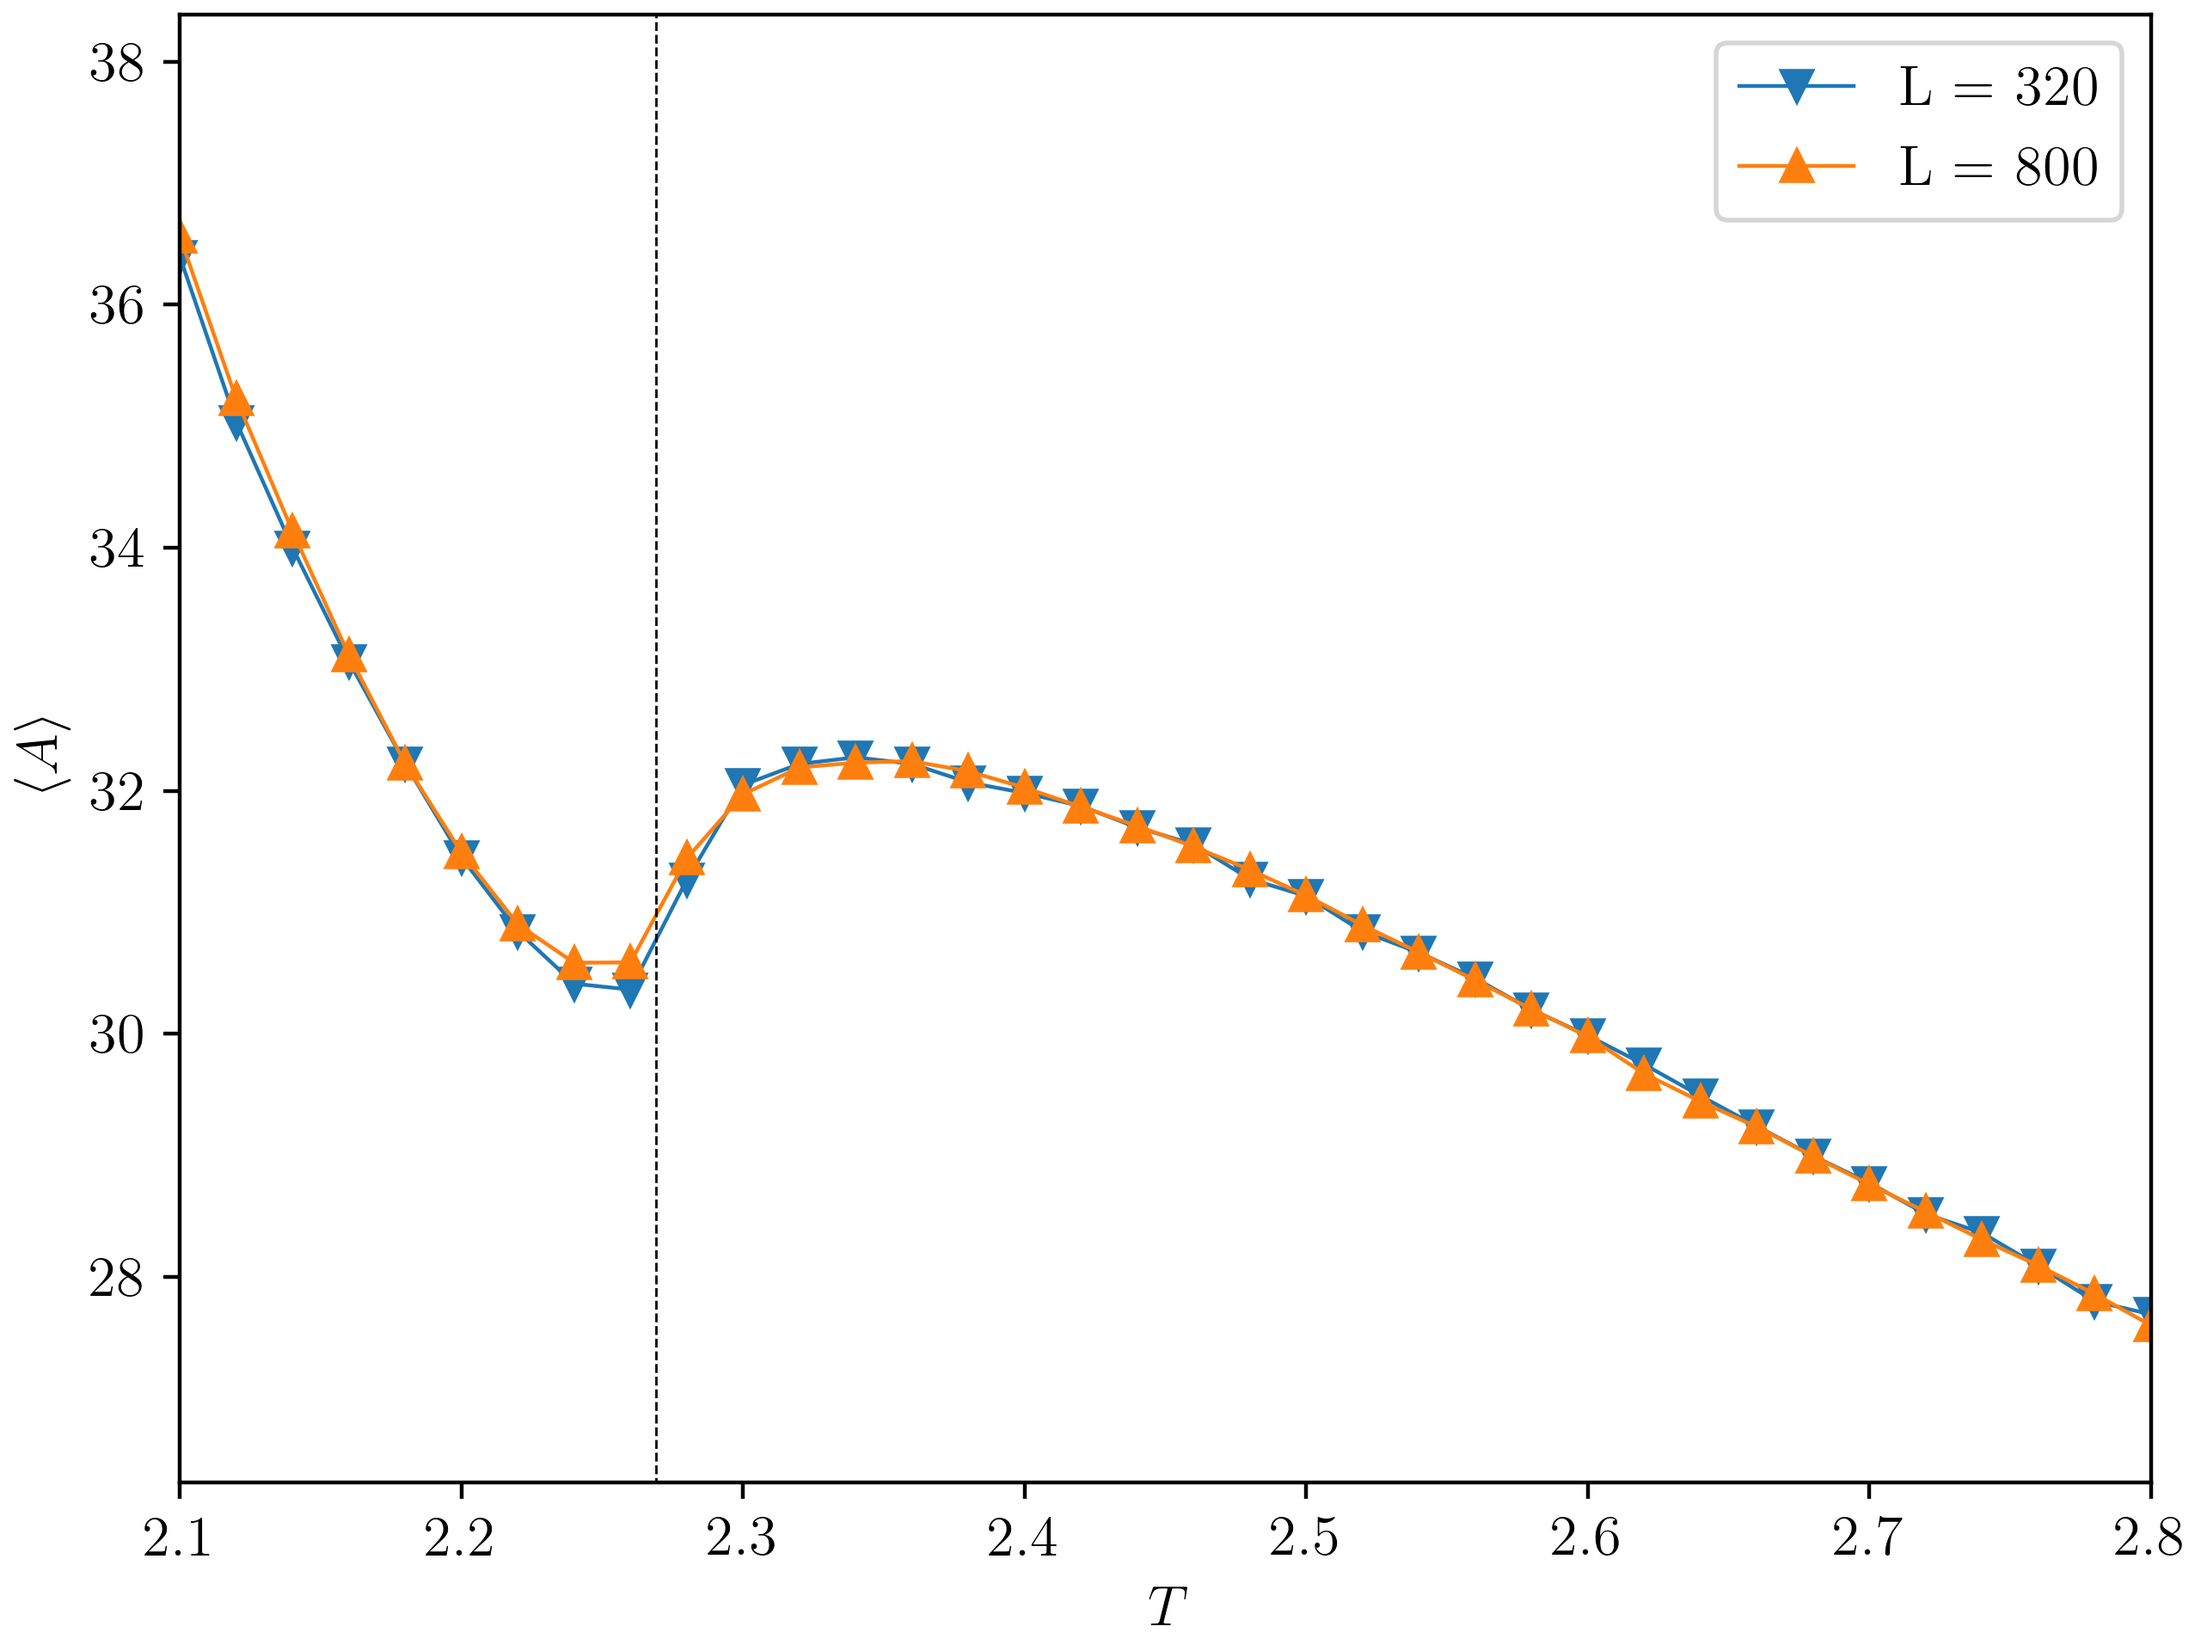
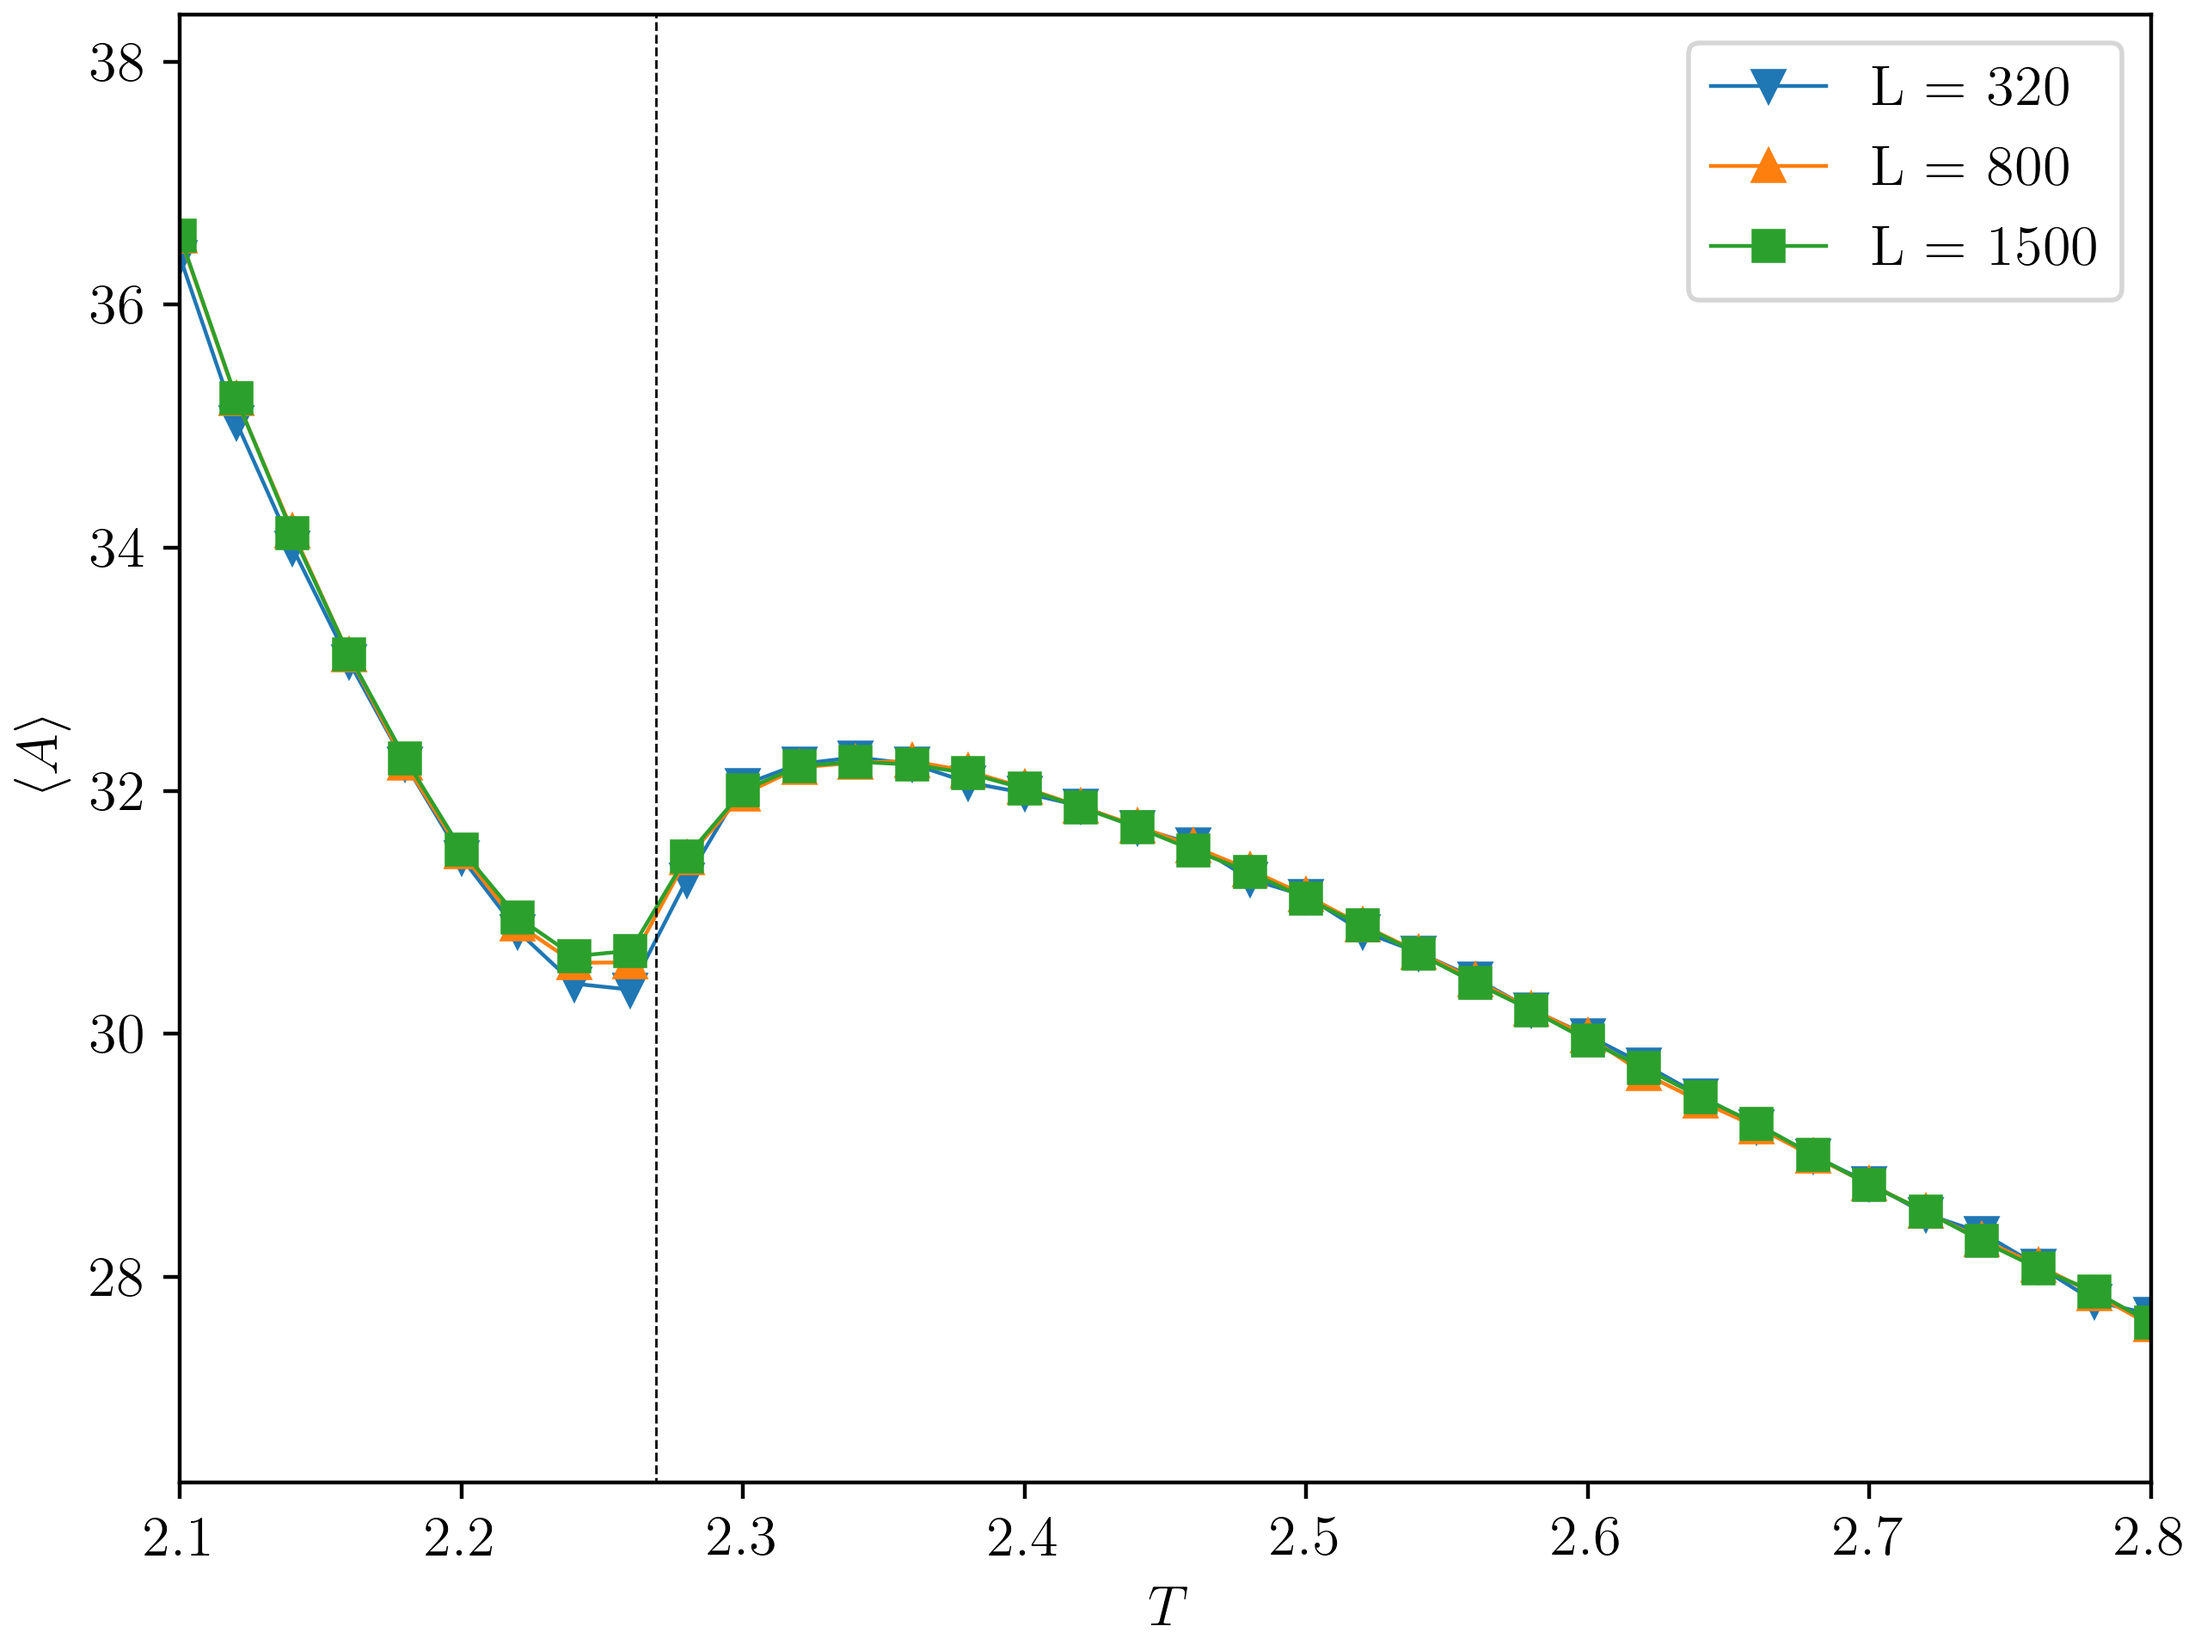
Atualização

diff --git a/ising/phase_trial/peakfinder.py b/ising/phase_trial/peakfinder.py
@@ -64,39 +64,39 @@ TF = TS[-1]
 definer('ising2D.c', PASTA, SEED, L, STEPS, RND, IMG, CI, TI, TF, dT, TRANS, CR, HK, SNAP, CLS, MES, N1)
 
 for i in range(4):
-#    os.mkdir(f'hk_{L}_{i}')
-#
-#    os.system('make out')
-#    
-#    for i in range(25):
-#        os.system('./out_find &')
-#        os.system('./out_find &')
-#        os.system('./out_find &')
-#        os.system('./out_find')
-#    
-#    samples = fnmatch.filter(list(i.name for i in os.scandir(path)), 'HK*')
-#    
-#    if len(samples) < 100:
-#        resto = 100 - len(samples)
-#        for i in range(resto):
-#            os.system('./out_find')
-#    
-#    os.system('make clean')
+    os.mkdir(f'hk_{L}_{i}')
+
+    os.system('make out')
     
-    os.system(f'python3 filter_hg.py {L} {TI} {TF} {dT} {i}')
+    for i in range(25):
+        os.system('./out_find &')
+        os.system('./out_find &')
+        os.system('./out_find &')
+        os.system('./out_find')
+    
+    samples = fnmatch.filter(list(i.name for i in os.scandir(path)), 'HK*')
+    
+    if len(samples) < 100:
+        resto = 100 - len(samples)
+        for i in range(resto):
+            os.system('./out_find')
+    
+    os.system('make clean')
+    
+    os.system(f'python3 filter_hg.py {L} {TI:.4f} {TF:.4f} {dT} {i}')
     break    
-#    t = np.loadtxt(f'hk_{L}_{i}.dat')
-#
-#    #--------------------Novas temperaturas--------------------
-#    ti = ts[np.where(t == max(t))[0]]
-#    tf = ts[np.where(t == max(t))[0]+1]
-#    ts, step = np.linspace(ti, tf, 4, retstep=True)
-#    TS, dT = np.linspace(ti+step/2, tf-step/2, 3, retstep=True)
-#    
-#    TI = TS[0]
-#    TF = TS[-1]
-#    
-#    PASTA = f'\"hk_{L}_{i+1}\"'
-#    
-#    definer('ising2D.c', PASTA, SEED, L, STEPS, RND, IMG, CI, TI, TF, dT, TRANS, CR, HK, SNAP, CLS, MES, N1)
+    t = np.loadtxt(f'hk_{L}_{i}.dat')
+
+    #--------------------Novas temperaturas--------------------
+    ti = ts[np.where(t == max(t))[0]]
+    tf = ts[np.where(t == max(t))[0]+1]
+    ts, step = np.linspace(ti, tf, 4, retstep=True)
+    TS, dT = np.linspace(ti+step/2, tf-step/2, 3, retstep=True)
+    
+    TI = TS[0]
+    TF = TS[-1]
+    
+    PASTA = f'\"hk_{L}_{i+1}\"'
+    
+    definer('ising2D.c', PASTA, SEED, L, STEPS, RND, IMG, CI, TI, TF, dT, TRANS, CR, HK, SNAP, CLS, MES, N1)
 

diff --git a/ising/clustersize/sizeplot.py b/ising/clustersize/sizeplot.py
@@ -2,15 +2,15 @@ import matplotlib.pyplot as plt
 import numpy as np
 plt.rcParams.update({"text.usetex" : True, "font.family" : "serif", "font.serif" : ["Computer Modern Serif"], "font.size" : 12})
 
-L = [320, 800]
+L = [320, 800, 1500]
 TI = 2.1
 TF = 2.8
 dT = 0.02
 
-cls = [np.loadtxt(f'clsize_{L[0]}.dat'), np.loadtxt(f'clsize_{L[1]}.dat')]
+cls = [np.loadtxt(f'clsize_{L[0]}.dat'), np.loadtxt(f'clsize_{L[1]}.dat'), np.loadtxt(f'clsize_{L[2]}.dat')]
 T = np.arange(TI, TF+dT, dT)
 
-markers = ['v', '^']
+markers = ['v', '^', 's']
 
 
 fig, ax = plt.subplots(1, 1, layout='constrained')

diff --git a/ising/phase_trial/filter_hg.py b/ising/phase_trial/filter_hg.py
@@ -10,7 +10,7 @@ dT = float(sys.argv[4])
 
 
 N = math.ceil((TF-TI)/dT)
-T = list(TI+(n*dT) for n in range(N+0))
+T = list(TI+(n*dT) for n in range(N+1))
 n = len(T)
 H = list(0 for i in range(n))
 
